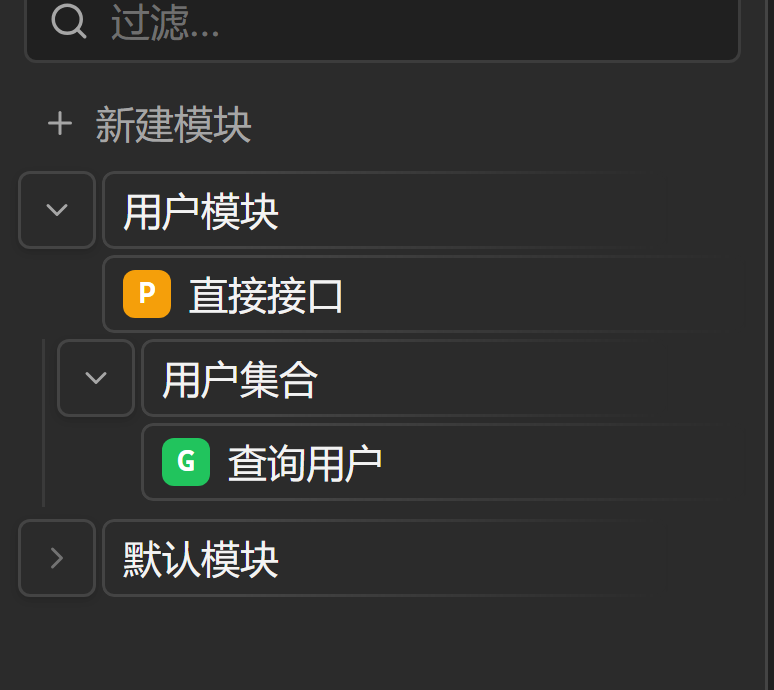
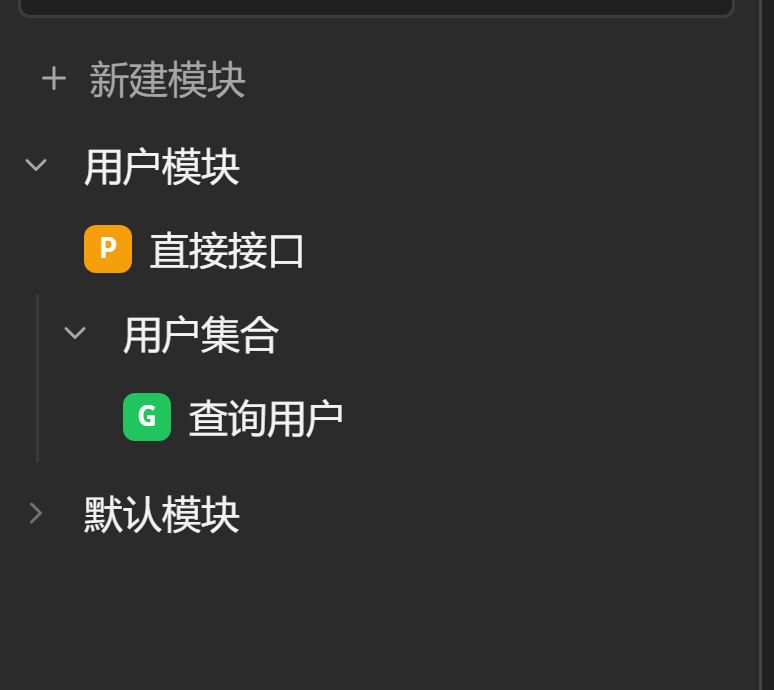
feat(tree): 树行的边框与阴影改成悬浮时显隐，随 v0.1.34 发布 (#176)
资源树的每一行原本带着一圈边框与阴影：展开箭头一块灰框，行名一块灰框，两块框挨着灰底，界面上像一份待办清单而不是一棵资源树。

这次把边框与阴影从按钮本体挪到一层透明覆盖层上，覆盖层平时 opacity 为 0。鼠标移进哪一块，GSAP 只把那一块覆盖层的 opacity 补间到 1，指针移开再淡回去；箭头与行名各自独立，指针悬停在哪一块，哪一块的边框才显出来。动画只动 opacity，边框的颜色与阴影仍留在 CSS 里，因此不引入第二套配色。

GSAP 走仓库既有的 src/lib/gsap 入口，用 motionSafe 分叉：默认动效下走 gsap.to 补间 0.15 秒，用户要求减弱动效时走 gsap.set 直接落到终态。监听无条件注册 —— 边框的显隐是状态，不能因为浏览器不认 prefers-reduced-motion 而丢失。

版本号随本次一起从 0.1.33 抬到 0.1.34。

diff --git a/src/features/project-tree/rows/TreeRow.tsx b/src/features/project-tree/rows/TreeRow.tsx
@@ -1,22 +1,25 @@
-import type {
-  CSSProperties,
-  DragEvent as ReactDragEvent,
-  MouseEvent as ReactMouseEvent,
-  ReactNode,
+import {
+  useRef,
+  type CSSProperties,
+  type DragEvent as ReactDragEvent,
+  type MouseEvent as ReactMouseEvent,
+  type ReactNode,
+  type RefObject,
 } from 'react';
 import { ChevronRight, Plus } from 'lucide-react';
 import { cn, focusRing } from '@/lib/utils';
+import { gsap, motionSafe, useGSAP } from '@/lib/gsap';
 import { Tooltip } from '@/components/ui/tooltip';
 import { InlineEdit } from '@/components/ui/InlineEdit';
 import type { DragContextValue, TreeNodeKind } from '../tree-types';
 import { DropHintOverlay } from './DropHintOverlay';
 
 /**
- * 一行里三块东西的高度：箭头方块、名称方块、行尾的「新建」按钮。
+ * 一行里三块东西的高度：箭头、名称方块、行尾的「新建」按钮。
  *
- * 箭头方块与名称方块必须**同高** —— 两个边框框住的两块东西，一高一低看着不像一对。
- * 高度写死在这儿（26px）而不是由字号推出来：名称那一块里装的是一段文字，行高会随
- * 字体设置变，写死的高度不会变。
+ * 箭头与名称方块必须**同高** —— 箭头只有一枚图标，名称那一块里是一段文字，两者同高
+ * 时图标与文字落在同一条水平线上。高度写死在这儿（26px）而不是由字号推出来：名称
+ * 那一块里装的是一段文字，行高会随字体设置变，写死的高度不会变。
  */
 const BLOCK_H = 'h-[26px]';
 
@@ -24,8 +27,7 @@ const BLOCK_H = 'h-[26px]';
  * 名称方块的边框与阴影：从左向右渐变消失。
  *
  * 做法是给一层「只画边框与阴影」的覆盖层加遮罩 —— 遮罩只作用在那一层上，文字不跟着淡。
- * 边框由覆盖层画、按钮自己留一条透明边框：按钮自己的 border 一旦带上遮罩，文字会一起淡掉；
- * 留一条透明边框则让按钮的盒模型与从前一致，文字的位置不挪。
+ * 这一层平时是透明的：鼠标悬在这一块上时，GSAP 把它淡入，边框与阴影才显出来。
  */
 const FADE_BORDER_STYLE: CSSProperties = {
   WebkitMaskImage: 'linear-gradient(to right, black 0%, black 25%, transparent 100%)',
@@ -33,12 +35,69 @@ const FADE_BORDER_STYLE: CSSProperties = {
 };
 
 /**
- * 前导槽的宽度：箭头方块与接口行的 method 药丸都占这一格。
+ * 前导槽的宽度：模块行与集合行的箭头占这一格，接口行没有箭头，留一格同样宽的空位。
  *
- * 两样东西占同一个槽，名称方块的左边界就在同一个位置 —— 于是**接口行的名称方块与
+ * 两行用同一个宽度常数，名称方块的左边界便落在同一个位置 —— 于是**接口行的名称方块与
  * 上级的名称方块左边界对齐**（接口是叶子，没有自己的层级）。
+ *
+ * 这一格只比箭头图标本身宽一点：箭头那一块只是一枚图标，多出来的宽度会变成箭头与
+ * 名称之间的一段空白。
  */
-const SLOT_W = 'w-[26px]';
+const SLOT_W = 'w-[16px]';
+
+/**
+ * 那些块的边框：鼠标悬在哪一块上，哪一块的边框才显出来，离开时收回。
+ *
+ * 边框与阴影画在一层覆盖上（覆盖层平时透明），故动画只动 `opacity` —— 边框的颜色留在
+ * CSS 里，不搬到 JS 里再补间一遍。
+ *
+ * 悬停的判定挂在覆盖层所在的按钮上：覆盖层自己不吃指针事件，鼠标进出按钮才是这一块
+ * 的进出。
+ *
+ * 减弱动效时不播补间，直接落到终态：边框该显出来就显出来。
+ */
+function useHoverBorders(borderRefs: RefObject<HTMLSpanElement | null>[]) {
+  useGSAP(() => {
+    const targets = borderRefs
+      .map((ref) => ref.current)
+      .filter((el): el is HTMLSpanElement => el !== null);
+    if (!targets.length) return;
+
+    // 边框的显隐是状态，不是装饰：监听无条件注册，只决定「怎么改 opacity」。
+    // motionSafe 的第一个参数是「播动画」的分支，第二个是「落到终态」的分支：
+    // 默认动效下走补间，用户要求减弱动效时走直落。两个分支放反了，默认动效下就
+    // 只剩直落，动画等于没写。
+    let fade = (border: HTMLSpanElement, opacity: number) => gsap.set(border, { opacity });
+    const cleanup = motionSafe(
+      () => {
+        fade = (border, opacity) =>
+          gsap.to(border, { opacity, duration: 0.15, ease: 'power2.out', overwrite: 'auto' });
+      },
+      () => {
+        fade = (border, opacity) => gsap.set(border, { opacity });
+      },
+    );
+
+    const offs = targets.map((border) => {
+      // 覆盖层画在按钮里面，它的父元素就是那一块的按钮 —— 鼠标进出按钮即是进出这一块。
+      const host = border.parentElement;
+      const enter = () => fade(border, 1);
+      const leave = () => fade(border, 0);
+      host?.addEventListener('mouseenter', enter);
+      host?.addEventListener('mouseleave', leave);
+      return () => {
+        host?.removeEventListener('mouseenter', enter);
+        host?.removeEventListener('mouseleave', leave);
+        gsap.killTweensOf(border);
+      };
+    });
+
+    return () => {
+      cleanup();
+      offs.forEach((off) => off());
+    };
+  });
+}
 
 export interface TreeRowProps {
   /**
@@ -126,6 +185,11 @@ export function TreeRow({
       ? dragContext.dropHint.zone
       : null;
 
+  /** 两块各有一层默认透明的边框覆盖层：悬浮时由 GSAP 淡入。 */
+  const arrowBorderRef = useRef<HTMLSpanElement>(null);
+  const nameBorderRef = useRef<HTMLSpanElement>(null);
+  useHoverBorders([arrowBorderRef, nameBorderRef]);
+
   /** 行按钮是这一行的拖拽起点 —— 箭头不参与。 */
   const startDrag = (e: ReactDragEvent) => {
     dragContext.setDataTransfer(e, { kind, ids: dragIds ?? [id] });
@@ -158,13 +222,19 @@ export function TreeRow({
             title={toggle.expanded ? '收起' : '展开'}
             data-testid="tree-toggle-btn"
             className={cn(
-              'flex shrink-0 items-center justify-center rounded-md border border-border shadow-sm',
+              'relative flex shrink-0 items-center justify-center rounded-md',
               BLOCK_H,
               SLOT_W,
               'text-faint transition-colors hover:bg-overlay-hover hover:text-foreground',
               focusRing,
             )}
           >
+            {/* 边框与阴影由这一层画，它不吃指针事件；平时透明，悬停时由 GSAP 淡入。 */}
+            <span
+              ref={arrowBorderRef}
+              aria-hidden
+              className="pointer-events-none absolute inset-0 rounded-md border border-border shadow-sm opacity-0"
+            />
             <ChevronRight
               className={cn(
                 'h-3 w-3 transition-transform',
@@ -199,17 +269,18 @@ export function TreeRow({
             }
           }}
           className={cn(
-            'relative flex min-w-0 flex-1 items-center gap-1.5 rounded-md border border-transparent px-1.5',
+            'relative flex min-w-0 flex-1 items-center gap-1.5 rounded-md px-1.5',
             'text-left text-xs text-foreground transition-colors',
             BLOCK_H,
             buttonClassName,
           )}
         >
-          {/* 边框与阴影由这一层画，它从左向右渐变消失；它不吃指针事件，点击照旧落在按钮上。 */}
+          {/* 边框与阴影由这一层画，它不吃指针事件；平时透明，悬停时由 GSAP 淡入。 */}
           <span
+            ref={nameBorderRef}
             aria-hidden
-            className="pointer-events-none absolute -inset-px rounded-md border border-border shadow-sm"
             style={FADE_BORDER_STYLE}
+            className="pointer-events-none absolute inset-0 rounded-md border border-border shadow-sm opacity-0"
           />
           {leading}
           <InlineEdit

diff --git a/src/features/project-tree/__tests__/tree-toggle-split.test.ts b/src/features/project-tree/__tests__/tree-toggle-split.test.ts
@@ -156,7 +156,7 @@ describe('展开箭头：它自己是另一个按钮', () => {
   });
 });
 
-describe('箭头与名称：两块各自独立的方块', () => {
+describe('箭头与名称：两个各自独立的按钮', () => {
   it('箭头不发起拖拽', () => {
     const arrow = elementAround(code(readSource(SHELL)), 'data-testid="tree-toggle-btn"');
     assert.doesNotMatch(arrow, /draggable/, '箭头又能拖了 —— 拖箭头会让人以为这一行能被拖走');
@@ -172,36 +172,33 @@ describe('箭头与名称：两块各自独立的方块', () => {
     assert.match(arrow, /onDrop=/, '箭头不接放置了 —— 把节点拖到箭头那一小条上会落空');
   });
 
-  it('箭头有自己的圆角边框与阴影', () => {
+  it('箭头那一块的边框与阴影在悬浮时才显出来', () => {
     const arrow = elementAround(code(readSource(SHELL)), 'data-testid="tree-toggle-btn"');
-    assert.match(arrow, /rounded-/, '箭头没有圆角');
-    assert.match(arrow, /border/, '箭头没有边框');
-    assert.match(arrow, /shadow/, '箭头没有阴影');
+    assert.match(
+      arrow,
+      /absolute inset-0 rounded-md border border-border shadow-sm/,
+      '箭头那一块没有画边框与阴影的覆盖层',
+    );
+    assert.match(arrow, /opacity-0/, '箭头的覆盖层不是默认透明的 —— 边框不该一直显着');
+    assert.match(arrow, /pointer-events-none/, '覆盖层吃了指针事件 —— 点箭头会被它挡掉');
   });
 
-  it('名称那一块也有自己的圆角边框与阴影', () => {
+  it('名称那一块的边框与阴影在悬浮时才显出来', () => {
     const label = elementAround(code(readSource(SHELL)), 'onClick={onSelect}');
-    assert.match(label, /rounded-/, '名称那一块没有圆角');
-    assert.match(label, /border/, '名称那一块没有边框');
-    assert.match(label, /shadow/, '名称那一块没有阴影');
+    assert.match(
+      label,
+      /absolute inset-0 rounded-md border border-border shadow-sm/,
+      '名称那一块没有画边框与阴影的覆盖层',
+    );
+    assert.match(label, /opacity-0/, '名称的覆盖层不是默认透明的 —— 边框不该一直显着');
+    assert.match(label, /pointer-events-none/, '覆盖层吃了指针事件 —— 点行名会被它挡掉');
+    assert.match(label, /style=\{FADE_BORDER_STYLE\}/, '名称那一块的边框没有从左向右渐变消失');
+    assert.match(label, /rounded-/, '名称那一块的 hover 填充没有圆角');
   });
 
   it('名称左侧对齐，不居中', () => {
     const label = elementAround(code(readSource(SHELL)), 'onClick={onSelect}');
     assert.match(label, /text-left/, '名称那一块不是左对齐');
-  });
-
-  it('名称那一块的边框与阴影从左向右渐变消失', () => {
-    const shell = code(readSource(SHELL));
-    assert.match(shell, /linear-gradient\(to right/, '名称那一块的边框没有从左向右的渐变遮罩');
-    assert.match(shell, /mask(Image|-image)/, '渐变没有落在遮罩上 —— 文字会跟着一起淡掉');
-    const label = elementAround(shell, 'onClick={onSelect}');
-    assert.match(label, /FADE_BORDER_STYLE/, '名称那一块没有用那一份渐变遮罩');
-    assert.match(
-      label,
-      /pointer-events-none/,
-      '渐变那一层没有关掉指针事件 —— 它会挡住这一行的点击',
-    );
   });
 
   it('箭头与名称两块之间只隔一点', () => {
@@ -217,6 +214,13 @@ describe('箭头与名称：两块各自独立的方块', () => {
       /\bpx-1\.5\b/,
       '名称那一块的左右内边距不是 6px —— 名称离自己那一块的边框太远',
     );
+  });
+
+  it('箭头贴着名称那一块：前导槽只比图标宽一点', () => {
+    const shell = code(readSource(SHELL));
+    const slotW = shell.match(/const SLOT_W = 'w-\[(\d+)px\]'/)?.[1];
+    assert.ok(slotW, '共享行外壳里没有写死前导槽宽度的那一个常量');
+    assert.ok(Number(slotW) <= 16, `前导槽还有 ${slotW}px 宽 —— 箭头与名称之间隔着一段空白`);
   });
 
   it('箭头与名称两块同高', () => {
@@ -242,6 +246,36 @@ describe('箭头与名称：两块各自独立的方块', () => {
       '接口行没有为对齐留出左侧那一格 —— 它的名称方块落在上级名称方块的左边',
     );
     assert.match(shell, /<span aria-hidden[^>]*SLOT_W/, '那一格不是与箭头同样宽的空格');
+  });
+});
+
+describe('边框的显隐：GSAP 补间', () => {
+  it('鼠标进出每一块时补间 opacity', () => {
+    const shell = code(readSource(SHELL));
+    assert.match(shell, /mouseenter/, '没有监听鼠标进入 —— 边框不会显出来');
+    assert.match(shell, /mouseleave/, '没有监听鼠标离开 —— 边框不会收回去');
+    assert.match(shell, /gsap\.to\(border, \{ opacity/, '边框的显隐没有走 GSAP 补间');
+  });
+
+  it('减弱动效时直接落到终态', () => {
+    const shell = code(readSource(SHELL));
+    assert.match(shell, /motionSafe\(/, '边框的显隐没有走 motionSafe');
+    assert.match(
+      shell,
+      /gsap\.set\(border, \{ opacity \}\)/,
+      '减弱动效时没有直接落到终态 —— 边框会留在屏幕上',
+    );
+  });
+
+  it('motionSafe 的两个分支没有放反', () => {
+    const shell = code(readSource(SHELL));
+    // motionSafe(animate, jumpToEnd)：第一个参数是「播动画」的分支，第二个是
+    // 「落到终态」的分支。顺序反了，默认动效下只剩直落，动画等于没写。
+    const call = shell.indexOf('motionSafe(');
+    const to = shell.indexOf('gsap.to(border', call);
+    const set = shell.indexOf('gsap.set(border', call);
+    assert.ok(call !== -1 && to !== -1 && set !== -1, '源码里找不到 motionSafe 的两个分支');
+    assert.ok(to < set, 'motionSafe 的两个分支放反了 —— 默认动效下走的是直落，边框不会淡入淡出');
   });
 });
 

diff --git a/AGENTS.md b/AGENTS.md
@@ -35,7 +35,7 @@ Six runtime pieces:
 
 **Resource tree.** Modules, collections and endpoints all live in **one `nodes` table**, discriminated by `type`. Hierarchy is `parent_id`; the owning project is denormalised onto every row as `root_id` (one indexed read answers "which project", which is both the store's filter and the MCP permission gate's key). Endpoint request configuration — method, url, auth, body, headers, params, tags — is a separate `endpoint_details` row keyed by node id, because those fields are meaningless for a module and the tree never renders them. The logical shape is still Project → Module → **Collection (recursively nestable, unbounded depth)** → Endpoint — with the one relaxation that an endpoint may sit directly under a module, so a single endpoint needs no throwaway collection first — and UI renders it with a recursive component.
 
-**A tree row is three blocks — the leading slot, the name box, and the trailing "new" button — and its two interactions are separate.** `rows/TreeRow.tsx` renders the chevron as its own `<button>` (`data-testid="tree-toggle-btn"`, `aria-expanded`) beside the row's label button, not inside it — a button nested inside a button is invalid HTML and the browser then merges the two clicks into one. `useTreeSelection` splits the two actions accordingly: `openModuleTab` / `openCollectionTab` call `openTab` and nothing else, while `toggleExpanded` calls `toggleNodeExpanded` and is what the chevron calls. The chevron does **not** start a drag (no `draggable`, no `onDragStart`): it is a control for expanding, and dragging it would suggest the row itself can be dragged away. It still accepts drops, because dropping a node on the chevron strip is the same action as dropping it on the row name. The chevron chip and the name box each carry their own rounded border and shadow, and both take their height from one constant (`BLOCK_H`) so their two borders line up; the name box's border and shadow fade out from left to right — that fade is a mask on a border-only overlay layer (`FADE_BORDER_STYLE`) rather than a mask on the button itself, because a mask on the button would fade its text too; the name is left-aligned inside its box, and the method pill (endpoint rows) sits **inside** that box in front of the name, so pill and name are one unit. The two chips sit 2px apart (the row container's `gap-0.5`). An endpoint row has no chevron but reserves an empty slot of the same width on its left, and `rows/EndpointList.tsx` no longer indents endpoint rows — that is what puts an endpoint's name box on the same vertical line as its parent's name box. `src/features/project-tree/__tests__/tree-toggle-split.test.ts` pins this wiring.
+**A tree row is three blocks — the leading slot, the name box, and the trailing "new" button — and its two interactions are separate.** `rows/TreeRow.tsx` renders the chevron as its own `<button>` (`data-testid="tree-toggle-btn"`, `aria-expanded`) beside the row's label button, not inside it — a button nested inside a button is invalid HTML and the browser then merges the two clicks into one. `useTreeSelection` splits the two actions accordingly: `openModuleTab` / `openCollectionTab` call `openTab` and nothing else, while `toggleExpanded` calls `toggleNodeExpanded` and is what the chevron calls. The chevron does **not** start a drag (no `draggable`, no `onDragStart`): it is a control for expanding, and dragging it would suggest the row itself can be dragged away. It still accepts drops, because dropping a node on the chevron strip is the same action as dropping it on the row name. The chevron and the name box carry no border and no shadow at rest: each block paints them on a transparent overlay, and GSAP fades that overlay in while the pointer is over that block and back out when it leaves. So a row shows its name as plain text on the tree background until the pointer enters one of its blocks. The leading slot that holds the chevron (`SLOT_W`, 16px) is only a little wider than the icon itself, so the arrow sits right next to the name. The chevron and the name box take their height from one constant (`BLOCK_H`) so the icon and the text sit on the same line; the name is left-aligned inside its box, and the method pill (endpoint rows) sits **inside** that box in front of the name, so pill and name are one unit. The chevron and the name box sit 2px apart (the row container's `gap-0.5`). An endpoint row has no chevron but reserves an empty slot of the same width on its left, and `rows/EndpointList.tsx` no longer indents endpoint rows — that is what puts an endpoint's name box on the same vertical line as its parent's name box. `src/features/project-tree/__tests__/tree-toggle-split.test.ts` pins this wiring.
 
 The parent/child relationship is an **enforced contract**, not a convention: `ResourceNodeType::may_under` defines that a module may only be top-level, an endpoint may sit under either a collection or a module, and a collection may sit under either a module or another collection. A SQLite trigger and an application-layer check both enforce it. `db::nodes::move_many` refuses any other combination, and the frontend's optimistic `moveNodes` guard mirrors it.
 

diff --git a/README.md b/README.md
@@ -8,7 +8,7 @@
 
 Claude Desktop、Cursor、Cline 等 AI 客户端可以直接读取并改写这里的接口定义，读到的就是用户正在维护的那份数据。
 
-[![版本](https://img.shields.io/badge/version-v0.1.33-6366f1?style=flat-square)](https://github.com/Nnyjk/simple-post/releases)
+[![版本](https://img.shields.io/badge/version-v0.1.34-6366f1?style=flat-square)](https://github.com/Nnyjk/simple-post/releases)
 [![CI](https://github.com/Nnyjk/simple-post/actions/workflows/ci.yml/badge.svg)](https://github.com/Nnyjk/simple-post/actions/workflows/ci.yml)
 [![平台](https://img.shields.io/badge/platform-Windows%2010%2F11-0078D4?style=flat-square)](#)
 [![MCP 工具](https://img.shields.io/badge/MCP-48%20tools-8A2BE2?style=flat-square)](#mcp-server)
@@ -109,11 +109,11 @@ MCP 桥接二进制 `simple-post-mcp` 只以编译产物的形式发布：GitHub
 容器：
 
 ```bash
-docker pull ghcr.io/nnyjk/simple-post:0.1.33
+docker pull ghcr.io/nnyjk/simple-post:0.1.34
 docker run -d --name simple-post -p 4173:4173 \
   -e SIMPLE_POST_WEB_PASSWORD=换成一句长随机口令 \
   -v simple-post-data:/data \
-  ghcr.io/nnyjk/simple-post:0.1.33
+  ghcr.io/nnyjk/simple-post:0.1.34
 ```
 
 浏览器访问 `http://localhost:4173/`；设了口令时第一次用 `http://localhost:4173/?token=<口令>` 打开，页面把口令存进浏览器的 localStorage，之后直接访问根路径即可。
@@ -144,7 +144,7 @@ MCP 的端点是守护进程自己的监听端口，主端口上不提供 MCP。
 
 镜像里只有 `simple-post-server`、单页应用的静态产物与一个数据目录。SQLite 使用 `rusqlite` 的 `bundled` 静态编译，TLS 使用 rustls 内置的根证书集，因此镜像不安装 GTK、WebKit、X11 与 OpenSSL。单页应用在 `/app/spa`，数据在 `/data`。
 
-镜像地址是 `ghcr.io/nnyjk/simple-post`，同时提供 linux/amd64 与 linux/arm64，每个 `v*` 标签发布一次。常用标签：`0.1.33`（具体版本）、`0.1`（次版本）、`latest`（最新正式版）。
+镜像地址是 `ghcr.io/nnyjk/simple-post`，同时提供 linux/amd64 与 linux/arm64，每个 `v*` 标签发布一次。常用标签：`0.1.34`（具体版本）、`0.1`（次版本）、`latest`（最新正式版）。
 
 ### Docker Compose 部署
 
@@ -154,7 +154,7 @@ MCP 的端点是守护进程自己的监听端口，主端口上不提供 MCP。
 cp .env.example .env
 ```
 
-至少把 `SP_WEB_PASSWORD` 改成一句长随机口令。不设置它时 `/api/*` 与 `/mcp` 对所有能连到该端口的调用方开放。镜像来源二选一：用发布镜像就在 `.env` 里写 `SP_IMAGE=ghcr.io/nnyjk/simple-post:0.1.33`；本地构建就执行 `docker build -t simple-post:local .`，`SP_IMAGE` 留空即可。
+至少把 `SP_WEB_PASSWORD` 改成一句长随机口令。不设置它时 `/api/*` 与 `/mcp` 对所有能连到该端口的调用方开放。镜像来源二选一：用发布镜像就在 `.env` 里写 `SP_IMAGE=ghcr.io/nnyjk/simple-post:0.1.34`；本地构建就执行 `docker build -t simple-post:local .`，`SP_IMAGE` 留空即可。
 
 启动与验证：
 
@@ -313,7 +313,7 @@ sp.example.com {
 
 ## 路线图
 
-v0.1.x 已交付：Tauri 桌面应用、`serve-web` 无头 Web 与独立 MCP 二进制，三者共用一套 Rust 核心。v0.2 的鉴权扩展、响应历史持久化、MCP 进程可视化、Postman 与 OpenAPI 导入导出、MCP 写工具与仓库治理全部完成。v0.3 随 v0.1.33 发布，请求脚本、动态变量与集合批量运行全部完成。
+v0.1.x 已交付：Tauri 桌面应用、`serve-web` 无头 Web 与独立 MCP 二进制，三者共用一套 Rust 核心。v0.2 的鉴权扩展、响应历史持久化、MCP 进程可视化、Postman 与 OpenAPI 导入导出、MCP 写工具与仓库治理全部完成。v0.3 随 v0.1.34 发布，请求脚本、动态变量与集合批量运行全部完成。
 
 AI 文档生成、AI 测试用例生成与 Git 工作区协作三项不在应用内实现：外部 AI 客户端通过 MCP 读取接口定义，自行生成文档与测试用例，并用 Git 管理工作区；应用侧因此不新增 AI provider 集成，也不新增 API key 的配置与存储面（#9 #10 #11 已关闭）。
 
